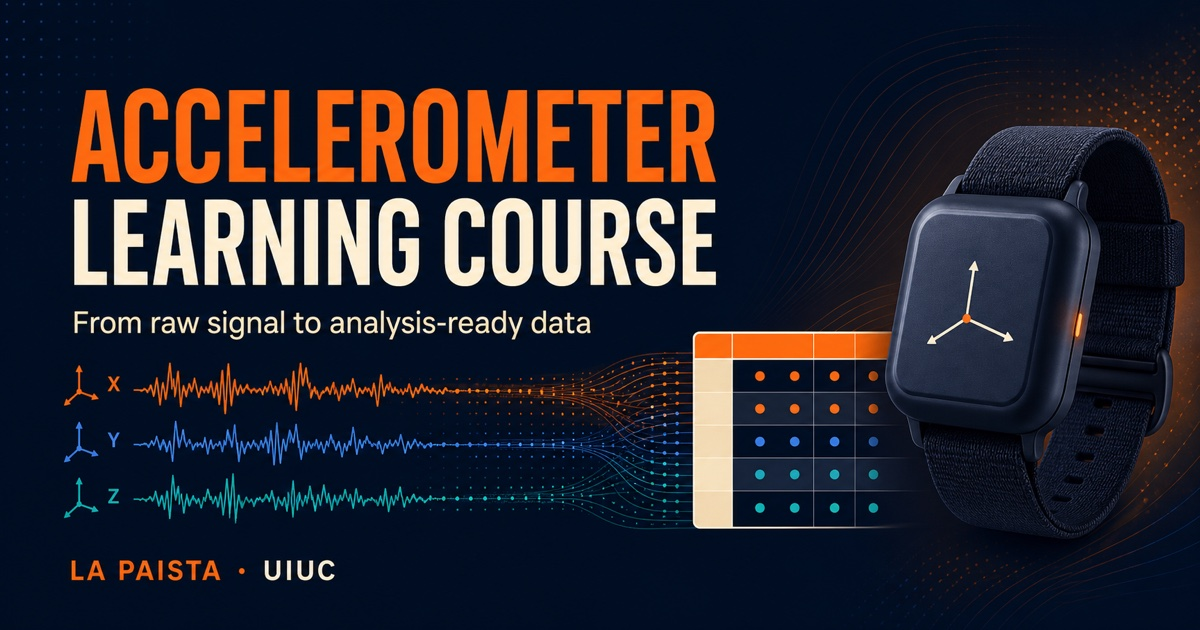
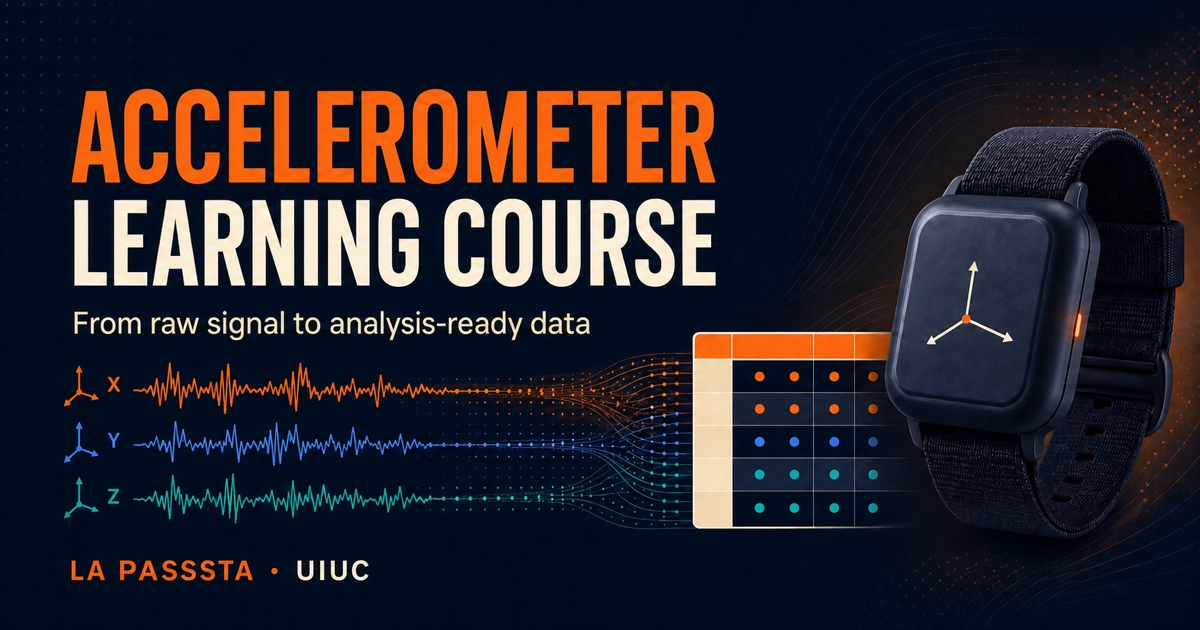
Rename LA PASSSTA Lab across course site

diff --git a/docs/course-information.html b/docs/course-information.html
@@ -101,7 +101,7 @@ ul.task-list li input[type="checkbox"] {
   },
   "publisher": {
     "@type": "Organization",
-    "name": "LA PAISTA Lab",
+    "name": "LA PASSSTA Lab",
     "url": "https://publish.illinois.edu/lapassstalab/"
   }
 }
@@ -130,8 +130,8 @@ ul.task-list li input[type="checkbox"] {
       <div class="navbar-container container-fluid">
       <div class="navbar-brand-container mx-auto">
     <a href="./index.html" class="navbar-brand navbar-brand-logo">
-    <img src="./images/lapaista-logo.png" alt="LA PAISTA laboratory logo" class="navbar-logo light-content">
-    <img src="./images/lapaista-logo.png" alt="LA PAISTA laboratory logo" class="navbar-logo dark-content">
+    <img src="./images/lapaista-logo.png" alt="LA PASSSTA laboratory logo" class="navbar-logo light-content">
+    <img src="./images/lapaista-logo.png" alt="LA PASSSTA laboratory logo" class="navbar-logo dark-content">
     </a>
     <a class="navbar-brand" href="./index.html">
     <span class="navbar-title">Accelerometer Learning Course</span>
@@ -298,7 +298,7 @@ Review the course scope, version, accessibility approach, privacy behavior, AI-v
 <section id="stewardship-and-review-status" class="level2">
 <h2 class="anchored" data-anchor-id="stewardship-and-review-status">Stewardship and review status</h2>
 <ul>
-<li><strong>Course steward:</strong> LA PAISTA Lab, University of Illinois Urbana-Champaign</li>
+<li><strong>Course steward:</strong> LA PASSSTA Lab, University of Illinois Urbana-Champaign</li>
 <li><strong>Current course version:</strong> 1.1.0</li>
 <li><strong>Content review date:</strong> July 25, 2026</li>
 <li><strong>Technical baseline:</strong> GGIR 3.3-7 documentation</li>
@@ -329,10 +329,10 @@ Review the course scope, version, accessibility approach, privacy behavior, AI-v
 </section>
 <section id="rights-reuse-and-citation" class="level2">
 <h2 class="anchored" data-anchor-id="rights-reuse-and-citation">Rights, reuse, and citation</h2>
-<p>No explicit open-source license is attached to the course at this time. Unless a file states otherwise, copyright remains with LA PAISTA Lab and the relevant contributors or rights holders. Contact the course steward before redistributing or adapting substantial course content.</p>
+<p>No explicit open-source license is attached to the course at this time. Unless a file states otherwise, copyright remains with LA PASSSTA Lab and the relevant contributors or rights holders. Contact the course steward before redistributing or adapting substantial course content.</p>
 <p>Suggested citation:</p>
 <blockquote class="blockquote">
-<p>LA PAISTA Lab. <em>Accelerometer Learning Course</em>. Version 1.1.0. University of Illinois Urbana-Champaign, 2026. https://eryx-lee.github.io/accelerometer-learning-course/</p>
+<p>LA PASSSTA Lab. <em>Accelerometer Learning Course</em>. Version 1.1.0. University of Illinois Urbana-Champaign, 2026. https://eryx-lee.github.io/accelerometer-learning-course/</p>
 </blockquote>
 </section>
 <section id="contact-and-corrections" class="level2">
@@ -761,7 +761,7 @@ Review the course scope, version, accessibility approach, privacy behavior, AI-v
       <ul class="footer-items list-unstyled">
     <li class="nav-item">
     <a class="nav-link" href="https://publish.illinois.edu/lapassstalab/">
-<p>LA PAISTA Lab Website</p>
+<p>LA PASSSTA Lab Website</p>
 </a>
   </li>
     <li class="nav-item">

diff --git a/docs/index.html b/docs/index.html
@@ -101,7 +101,7 @@ ul.task-list li input[type="checkbox"] {
   },
   "publisher": {
     "@type": "Organization",
-    "name": "LA PAISTA Lab",
+    "name": "LA PASSSTA Lab",
     "url": "https://publish.illinois.edu/lapassstalab/"
   }
 }
@@ -130,8 +130,8 @@ ul.task-list li input[type="checkbox"] {
       <div class="navbar-container container-fluid">
       <div class="navbar-brand-container mx-auto">
     <a href="./index.html" class="navbar-brand navbar-brand-logo">
-    <img src="./images/lapaista-logo.png" alt="LA PAISTA laboratory logo" class="navbar-logo light-content">
-    <img src="./images/lapaista-logo.png" alt="LA PAISTA laboratory logo" class="navbar-logo dark-content">
+    <img src="./images/lapaista-logo.png" alt="LA PASSSTA laboratory logo" class="navbar-logo light-content">
+    <img src="./images/lapaista-logo.png" alt="LA PASSSTA laboratory logo" class="navbar-logo dark-content">
     </a>
     <a class="navbar-brand" href="./index.html">
     <span class="navbar-title">Accelerometer Learning Course</span>
@@ -278,7 +278,7 @@ ul.task-list li input[type="checkbox"] {
 </div>
 <div class="site-hero__inner">
 <div class="brand-lockup">
-<p><img src="images/lapaista-logo.png" alt="LA PAISTA laboratory logo"> <span>University of Illinois Urbana-Champaign / LA PAISTA Lab</span></p>
+<p><img src="images/lapaista-logo.png" alt="LA PASSSTA laboratory logo"> <span>University of Illinois Urbana-Champaign / LA PASSSTA Lab</span></p>
 </div>
 <p class="eyebrow">
 University research workflow · Self-paced
@@ -527,7 +527,7 @@ A course you can inspect as well as complete.
 <div class="workflow-step">
 <span>Stewardship</span><strong>University research context</strong>
 <p>
-Developed and maintained by the LA PAISTA Lab at the University of Illinois Urbana-Champaign.
+Developed and maintained by the LA PASSSTA Lab at the University of Illinois Urbana-Champaign.
 </p>
 </div>
 <div class="workflow-step">
@@ -1105,7 +1105,7 @@ Module 1 turns that question into the first documented device, placement, and we
       <ul class="footer-items list-unstyled">
     <li class="nav-item">
     <a class="nav-link" href="https://publish.illinois.edu/lapassstalab/">
-<p>LA PAISTA Lab Website</p>
+<p>LA PASSSTA Lab Website</p>
 </a>
   </li>
     <li class="nav-item">

diff --git a/docs/setting-up-r-and-ggir.html b/docs/setting-up-r-and-ggir.html
@@ -136,7 +136,7 @@ pre > code.sourceCode > span > a:first-child::before { text-decoration: underlin
   },
   "publisher": {
     "@type": "Organization",
-    "name": "LA PAISTA Lab",
+    "name": "LA PASSSTA Lab",
     "url": "https://publish.illinois.edu/lapassstalab/"
   }
 }
@@ -165,8 +165,8 @@ pre > code.sourceCode > span > a:first-child::before { text-decoration: underlin
       <div class="navbar-container container-fluid">
       <div class="navbar-brand-container mx-auto">
     <a href="./index.html" class="navbar-brand navbar-brand-logo">
-    <img src="./images/lapaista-logo.png" alt="LA PAISTA laboratory logo" class="navbar-logo light-content">
-    <img src="./images/lapaista-logo.png" alt="LA PAISTA laboratory logo" class="navbar-logo dark-content">
+    <img src="./images/lapaista-logo.png" alt="LA PASSSTA laboratory logo" class="navbar-logo light-content">
+    <img src="./images/lapaista-logo.png" alt="LA PASSSTA laboratory logo" class="navbar-logo dark-content">
     </a>
     <a class="navbar-brand" href="./index.html">
     <span class="navbar-title">Accelerometer Learning Course</span>
@@ -1213,7 +1213,7 @@ The goal is not to memorize one parameter set. The goal is to know what each par
       <ul class="footer-items list-unstyled">
     <li class="nav-item">
     <a class="nav-link" href="https://publish.illinois.edu/lapassstalab/">
-<p>LA PAISTA Lab Website</p>
+<p>LA PASSSTA Lab Website</p>
 </a>
   </li>
     <li class="nav-item">

diff --git a/docs/setting-up-final-dataset-in-stata.html b/docs/setting-up-final-dataset-in-stata.html
@@ -136,7 +136,7 @@ pre > code.sourceCode > span > a:first-child::before { text-decoration: underlin
   },
   "publisher": {
     "@type": "Organization",
-    "name": "LA PAISTA Lab",
+    "name": "LA PASSSTA Lab",
     "url": "https://publish.illinois.edu/lapassstalab/"
   }
 }
@@ -194,8 +194,8 @@ window.Quarto = {
       <div class="navbar-container container-fluid">
       <div class="navbar-brand-container mx-auto">
     <a href="./index.html" class="navbar-brand navbar-brand-logo">
-    <img src="./images/lapaista-logo.png" alt="LA PAISTA laboratory logo" class="navbar-logo light-content">
-    <img src="./images/lapaista-logo.png" alt="LA PAISTA laboratory logo" class="navbar-logo dark-content">
+    <img src="./images/lapaista-logo.png" alt="LA PASSSTA laboratory logo" class="navbar-logo light-content">
+    <img src="./images/lapaista-logo.png" alt="LA PASSSTA laboratory logo" class="navbar-logo dark-content">
     </a>
     <a class="navbar-brand" href="./index.html">
     <span class="navbar-title">Accelerometer Learning Course</span>
@@ -1191,7 +1191,7 @@ The final dataset should be reproducible, dated, and explainable. A collaborator
       <ul class="footer-items list-unstyled">
     <li class="nav-item">
     <a class="nav-link" href="https://publish.illinois.edu/lapassstalab/">
-<p>LA PAISTA Lab Website</p>
+<p>LA PASSSTA Lab Website</p>
 </a>
   </li>
     <li class="nav-item">

diff --git a/docs/accelerometer-introduction.html b/docs/accelerometer-introduction.html
@@ -101,7 +101,7 @@ ul.task-list li input[type="checkbox"] {
   },
   "publisher": {
     "@type": "Organization",
-    "name": "LA PAISTA Lab",
+    "name": "LA PASSSTA Lab",
     "url": "https://publish.illinois.edu/lapassstalab/"
   }
 }
@@ -130,8 +130,8 @@ ul.task-list li input[type="checkbox"] {
       <div class="navbar-container container-fluid">
       <div class="navbar-brand-container mx-auto">
     <a href="./index.html" class="navbar-brand navbar-brand-logo">
-    <img src="./images/lapaista-logo.png" alt="LA PAISTA laboratory logo" class="navbar-logo light-content">
-    <img src="./images/lapaista-logo.png" alt="LA PAISTA laboratory logo" class="navbar-logo dark-content">
+    <img src="./images/lapaista-logo.png" alt="LA PASSSTA laboratory logo" class="navbar-logo light-content">
+    <img src="./images/lapaista-logo.png" alt="LA PASSSTA laboratory logo" class="navbar-logo dark-content">
     </a>
     <a class="navbar-brand" href="./index.html">
     <span class="navbar-title">Accelerometer Learning Course</span>
@@ -1371,7 +1371,7 @@ The next module moves from study design to hands-on fieldwork: programming devic
       <ul class="footer-items list-unstyled">
     <li class="nav-item">
     <a class="nav-link" href="https://publish.illinois.edu/lapassstalab/">
-<p>LA PAISTA Lab Website</p>
+<p>LA PASSSTA Lab Website</p>
 </a>
   </li>
     <li class="nav-item">

diff --git a/docs/accelerometer-programming-and-downloading.html b/docs/accelerometer-programming-and-downloading.html
@@ -101,7 +101,7 @@ ul.task-list li input[type="checkbox"] {
   },
   "publisher": {
     "@type": "Organization",
-    "name": "LA PAISTA Lab",
+    "name": "LA PASSSTA Lab",
     "url": "https://publish.illinois.edu/lapassstalab/"
   }
 }
@@ -130,8 +130,8 @@ ul.task-list li input[type="checkbox"] {
       <div class="navbar-container container-fluid">
       <div class="navbar-brand-container mx-auto">
     <a href="./index.html" class="navbar-brand navbar-brand-logo">
-    <img src="./images/lapaista-logo.png" alt="LA PAISTA laboratory logo" class="navbar-logo light-content">
-    <img src="./images/lapaista-logo.png" alt="LA PAISTA laboratory logo" class="navbar-logo dark-content">
+    <img src="./images/lapaista-logo.png" alt="LA PASSSTA laboratory logo" class="navbar-logo light-content">
+    <img src="./images/lapaista-logo.png" alt="LA PASSSTA laboratory logo" class="navbar-logo dark-content">
     </a>
     <a class="navbar-brand" href="./index.html">
     <span class="navbar-title">Accelerometer Learning Course</span>
@@ -1033,7 +1033,7 @@ After programming and downloading, the next module focuses on organizing, naming
       <ul class="footer-items list-unstyled">
     <li class="nav-item">
     <a class="nav-link" href="https://publish.illinois.edu/lapassstalab/">
-<p>LA PAISTA Lab Website</p>
+<p>LA PASSSTA Lab Website</p>
 </a>
   </li>
     <li class="nav-item">

diff --git a/docs/checking-data-quality.html b/docs/checking-data-quality.html
@@ -101,7 +101,7 @@ ul.task-list li input[type="checkbox"] {
   },
   "publisher": {
     "@type": "Organization",
-    "name": "LA PAISTA Lab",
+    "name": "LA PASSSTA Lab",
     "url": "https://publish.illinois.edu/lapassstalab/"
   }
 }
@@ -130,8 +130,8 @@ ul.task-list li input[type="checkbox"] {
       <div class="navbar-container container-fluid">
       <div class="navbar-brand-container mx-auto">
     <a href="./index.html" class="navbar-brand navbar-brand-logo">
-    <img src="./images/lapaista-logo.png" alt="LA PAISTA laboratory logo" class="navbar-logo light-content">
-    <img src="./images/lapaista-logo.png" alt="LA PAISTA laboratory logo" class="navbar-logo dark-content">
+    <img src="./images/lapaista-logo.png" alt="LA PASSSTA laboratory logo" class="navbar-logo light-content">
+    <img src="./images/lapaista-logo.png" alt="LA PASSSTA laboratory logo" class="navbar-logo dark-content">
     </a>
     <a class="navbar-brand" href="./index.html">
     <span class="navbar-title">Accelerometer Learning Course</span>
@@ -1085,7 +1085,7 @@ QC turns raw processing output into defensible data-management decisions. The ne
       <ul class="footer-items list-unstyled">
     <li class="nav-item">
     <a class="nav-link" href="https://publish.illinois.edu/lapassstalab/">
-<p>LA PAISTA Lab Website</p>
+<p>LA PASSSTA Lab Website</p>
 </a>
   </li>
     <li class="nav-item">

diff --git a/docs/cleaning-and-standardizing.html b/docs/cleaning-and-standardizing.html
@@ -101,7 +101,7 @@ ul.task-list li input[type="checkbox"] {
   },
   "publisher": {
     "@type": "Organization",
-    "name": "LA PAISTA Lab",
+    "name": "LA PASSSTA Lab",
     "url": "https://publish.illinois.edu/lapassstalab/"
   }
 }
@@ -130,8 +130,8 @@ ul.task-list li input[type="checkbox"] {
       <div class="navbar-container container-fluid">
       <div class="navbar-brand-container mx-auto">
     <a href="./index.html" class="navbar-brand navbar-brand-logo">
-    <img src="./images/lapaista-logo.png" alt="LA PAISTA laboratory logo" class="navbar-logo light-content">
-    <img src="./images/lapaista-logo.png" alt="LA PAISTA laboratory logo" class="navbar-logo dark-content">
+    <img src="./images/lapaista-logo.png" alt="LA PASSSTA laboratory logo" class="navbar-logo light-content">
+    <img src="./images/lapaista-logo.png" alt="LA PASSSTA laboratory logo" class="navbar-logo dark-content">
     </a>
     <a class="navbar-brand" href="./index.html">
     <span class="navbar-title">Accelerometer Learning Course</span>
@@ -1150,7 +1150,7 @@ Cleaning should preserve traceability. Every standardized variable should point 
       <ul class="footer-items list-unstyled">
     <li class="nav-item">
     <a class="nav-link" href="https://publish.illinois.edu/lapassstalab/">
-<p>LA PAISTA Lab Website</p>
+<p>LA PASSSTA Lab Website</p>
 </a>
   </li>
     <li class="nav-item">

diff --git a/docs/changelog.html b/docs/changelog.html
@@ -101,7 +101,7 @@ ul.task-list li input[type="checkbox"] {
   },
   "publisher": {
     "@type": "Organization",
-    "name": "LA PAISTA Lab",
+    "name": "LA PASSSTA Lab",
     "url": "https://publish.illinois.edu/lapassstalab/"
   }
 }
@@ -130,8 +130,8 @@ ul.task-list li input[type="checkbox"] {
       <div class="navbar-container container-fluid">
       <div class="navbar-brand-container mx-auto">
     <a href="./index.html" class="navbar-brand navbar-brand-logo">
-    <img src="./images/lapaista-logo.png" alt="LA PAISTA laboratory logo" class="navbar-logo light-content">
-    <img src="./images/lapaista-logo.png" alt="LA PAISTA laboratory logo" class="navbar-logo dark-content">
+    <img src="./images/lapaista-logo.png" alt="LA PASSSTA laboratory logo" class="navbar-logo light-content">
+    <img src="./images/lapaista-logo.png" alt="LA PASSSTA laboratory logo" class="navbar-logo dark-content">
     </a>
     <a class="navbar-brand" href="./index.html">
     <span class="navbar-title">Accelerometer Learning Course</span>
@@ -734,7 +734,7 @@ Track notable content, technical, accessibility, media, and resource changes to 
       <ul class="footer-items list-unstyled">
     <li class="nav-item">
     <a class="nav-link" href="https://publish.illinois.edu/lapassstalab/">
-<p>LA PAISTA Lab Website</p>
+<p>LA PASSSTA Lab Website</p>
 </a>
   </li>
     <li class="nav-item">

diff --git a/docs/completion.html b/docs/completion.html
@@ -101,7 +101,7 @@ ul.task-list li input[type="checkbox"] {
   },
   "publisher": {
     "@type": "Organization",
-    "name": "LA PAISTA Lab",
+    "name": "LA PASSSTA Lab",
     "url": "https://publish.illinois.edu/lapassstalab/"
   }
 }
@@ -130,8 +130,8 @@ ul.task-list li input[type="checkbox"] {
       <div class="navbar-container container-fluid">
       <div class="navbar-brand-container mx-auto">
     <a href="./index.html" class="navbar-brand navbar-brand-logo">
-    <img src="./images/lapaista-logo.png" alt="LA PAISTA laboratory logo" class="navbar-logo light-content">
-    <img src="./images/lapaista-logo.png" alt="LA PAISTA laboratory logo" class="navbar-logo dark-content">
+    <img src="./images/lapaista-logo.png" alt="LA PASSSTA laboratory logo" class="navbar-logo light-content">
+    <img src="./images/lapaista-logo.png" alt="LA PASSSTA laboratory logo" class="navbar-logo dark-content">
     </a>
     <a class="navbar-brand" href="./index.html">
     <span class="navbar-title">Accelerometer Learning Course</span>
@@ -759,7 +759,7 @@ Use a final readiness checklist, finish the synthetic capstone, and preserve the
       <ul class="footer-items list-unstyled">
     <li class="nav-item">
     <a class="nav-link" href="https://publish.illinois.edu/lapassstalab/">
-<p>LA PAISTA Lab Website</p>
+<p>LA PASSSTA Lab Website</p>
 </a>
   </li>
     <li class="nav-item">

diff --git a/docs/knowledge-checking.html b/docs/knowledge-checking.html
@@ -101,7 +101,7 @@ ul.task-list li input[type="checkbox"] {
   },
   "publisher": {
     "@type": "Organization",
-    "name": "LA PAISTA Lab",
+    "name": "LA PASSSTA Lab",
     "url": "https://publish.illinois.edu/lapassstalab/"
   }
 }
@@ -130,8 +130,8 @@ ul.task-list li input[type="checkbox"] {
       <div class="navbar-container container-fluid">
       <div class="navbar-brand-container mx-auto">
     <a href="./index.html" class="navbar-brand navbar-brand-logo">
-    <img src="./images/lapaista-logo.png" alt="LA PAISTA laboratory logo" class="navbar-logo light-content">
-    <img src="./images/lapaista-logo.png" alt="LA PAISTA laboratory logo" class="navbar-logo dark-content">
+    <img src="./images/lapaista-logo.png" alt="LA PASSSTA laboratory logo" class="navbar-logo light-content">
+    <img src="./images/lapaista-logo.png" alt="LA PASSSTA laboratory logo" class="navbar-logo dark-content">
     </a>
     <a class="navbar-brand" href="./index.html">
     <span class="navbar-title">Accelerometer Learning Course</span>
@@ -942,7 +942,7 @@ Use the readiness checklist, download the toolkit, and complete the synthetic ca
       <ul class="footer-items list-unstyled">
     <li class="nav-item">
     <a class="nav-link" href="https://publish.illinois.edu/lapassstalab/">
-<p>LA PAISTA Lab Website</p>
+<p>LA PASSSTA Lab Website</p>
 </a>
   </li>
     <li class="nav-item">

diff --git a/docs/organizing-and-converting.html b/docs/organizing-and-converting.html
@@ -101,7 +101,7 @@ ul.task-list li input[type="checkbox"] {
   },
   "publisher": {
     "@type": "Organization",
-    "name": "LA PAISTA Lab",
+    "name": "LA PASSSTA Lab",
     "url": "https://publish.illinois.edu/lapassstalab/"
   }
 }
@@ -130,8 +130,8 @@ ul.task-list li input[type="checkbox"] {
       <div class="navbar-container container-fluid">
       <div class="navbar-brand-container mx-auto">
     <a href="./index.html" class="navbar-brand navbar-brand-logo">
-    <img src="./images/lapaista-logo.png" alt="LA PAISTA laboratory logo" class="navbar-logo light-content">
-    <img src="./images/lapaista-logo.png" alt="LA PAISTA laboratory logo" class="navbar-logo dark-content">
+    <img src="./images/lapaista-logo.png" alt="LA PASSSTA laboratory logo" class="navbar-logo light-content">
+    <img src="./images/lapaista-logo.png" alt="LA PASSSTA laboratory logo" class="navbar-logo dark-content">
     </a>
     <a class="navbar-brand" href="./index.html">
     <span class="navbar-title">Accelerometer Learning Course</span>
@@ -964,7 +964,7 @@ Before processing begins, verify that each input file has a corresponding study 
       <ul class="footer-items list-unstyled">
     <li class="nav-item">
     <a class="nav-link" href="https://publish.illinois.edu/lapassstalab/">
-<p>LA PAISTA Lab Website</p>
+<p>LA PASSSTA Lab Website</p>
 </a>
   </li>
     <li class="nav-item">
